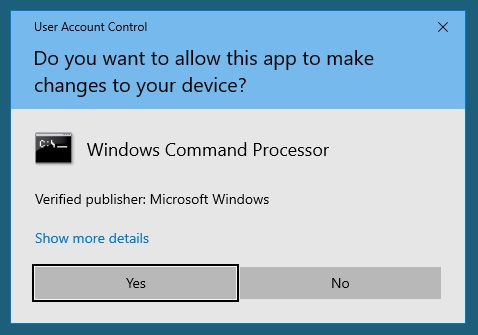
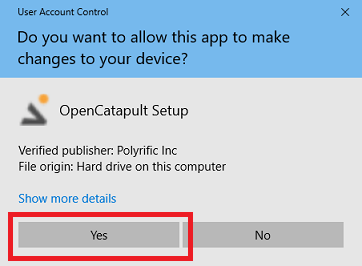
Update Quick Start to install from the installer (#570)

diff --git a/docs/home/start.md b/docs/home/start.md
@@ -22,33 +22,74 @@ If you get something like the screenshot below, it means you are good to go.
 
 ![dotnet info](../img/dotnet_info.jpg)
 
-## Get the released package
+## Get the installer package
 
-Please go to [OpenCatapult release website](https://releases.opencatapult.net) and download the latest package available in the `All Components` box. As of this writing, the latest package is `opencatapult-v1.0.0-beta4.1-win-x64.zip`.
+Please go to [OpenCatapult release website](https://releases.opencatapult.net) and download the installer package which is available in the `All Components` box.
+
+![Installer package](../img/oc_installer_package.png)
+
+## Install the package
+
+After downloading the installer package, just double click it and follow the following instructions:
+1) If the "Windows Defender Smartscreen" window pops up, just click "More Info" and "Run Anyway" buttons
+
+![More Info](../img/win_defender_smartscreen.png)
+![Run Anyway](../img/win_defender_smartscreen_2.png)
+
+2) When the "User Access Control" window pops up, clik "Yes" button
+
+![UAC](../img/uac-confirm.jpg)
+
+3) Select where OpenCatapult components should be installed, then click "Next" button
+
+![Destination](../img/install_destination.png)
+
+4) Give the Start Menu folder a name, then click "Next" button
+
+![Start Menu](../img/install_startmenu.png)
+
+5) Select the "Create a desktop shortcut" checkbox, then click "Next" button
+
+![Shortcut](../img/install_shortcut.png)
+
+6) Review the installation summary, then click "Install" button
+
+![Summary](../img/install_summary.png)
+
+7) Wait until the installation complete, then click "Finish" button
+
+![Finish](../img/install_finish.png)
 
 ## Run the components
 
 Please follow these steps to run the `OpenCatapult` components:
 
-1) Extract the released package into a location on your machine, e.g. `C:\OpenCatapult`
-
-2) Open the location in Windows Explorer
-
-3) Right click the "`run.bat`" file, and select "`Run as administrator`". Click "Yes" on the confirmation dialog
+1) If the `OpenCatapult Manager` window has been opened, please close it first. Then find the shortcut either in Desktop or Start Menu, right click it, and select "`Run as administrator`". Click "Yes" on the confirmation.
 
 ![Run as administrator](../img/run-admin.jpg)
-![User Access Control Confirmation](../img/uac-confirm.jpg)
+![UAC Confirmation](../img/run-manager-admin.png)
 
-4) Notice that it will open four new Command Prompt windows for each of the `OpenCatapult` component: API, Engine, CLI, and Web UI. Wait a minute for the process to complete, and find the windows for API and Web components and make sure they show as per screenshot below:
+2) Let's start the API component first by clicking "Start" button in the `OpenCatapult Manager`
 
-![Run API](../img/run_ocapi.jpg)
+![Start API](../img/ocmanager_startapi.png)
+
+Notice that a command prompt is opened. Please wait until the running script is completed. If you see the following status, it means the API has been successfully started on https://localhost:44305
+
+![API is running](../img/run_ocapi.jpg)
+
+3) Let's get back to the `OpenCatapult Manager` again. Click on the Web's Start button to start the Web component
+
+![Start Web](../img/ocmanager_startweb.png)
+
+Notice that another command prompt is opened. Please wait until the running script is completed. If you see the following status, it means the Web component has been successfully started on https://localhost:44300
+
 ![Run Web](../img/run_ocweb.jpg)
 
-5) Open your browser, and go to `https://localhost:44300` to open the `OpenCatapult` Web UI
+4) You can now open a browser, and go to `https://localhost:44300` to open the `OpenCatapult` Web UI
 
 ![Browse Web](../img/browser_web.jpg)
 
-6) In the login page, enter "`admin@opencatapult.net`" as the UserName, and "`opencatapult`" as the Password. If you are able to login, it means the components have been setup correctly.
+5) In the login page, enter "`admin@opencatapult.net`" as the UserName, and "`opencatapult`" as the Password. If you are able to login, it means the components have been setup correctly.
 
 ![Welcome](../img/welcome.jpg)
 
